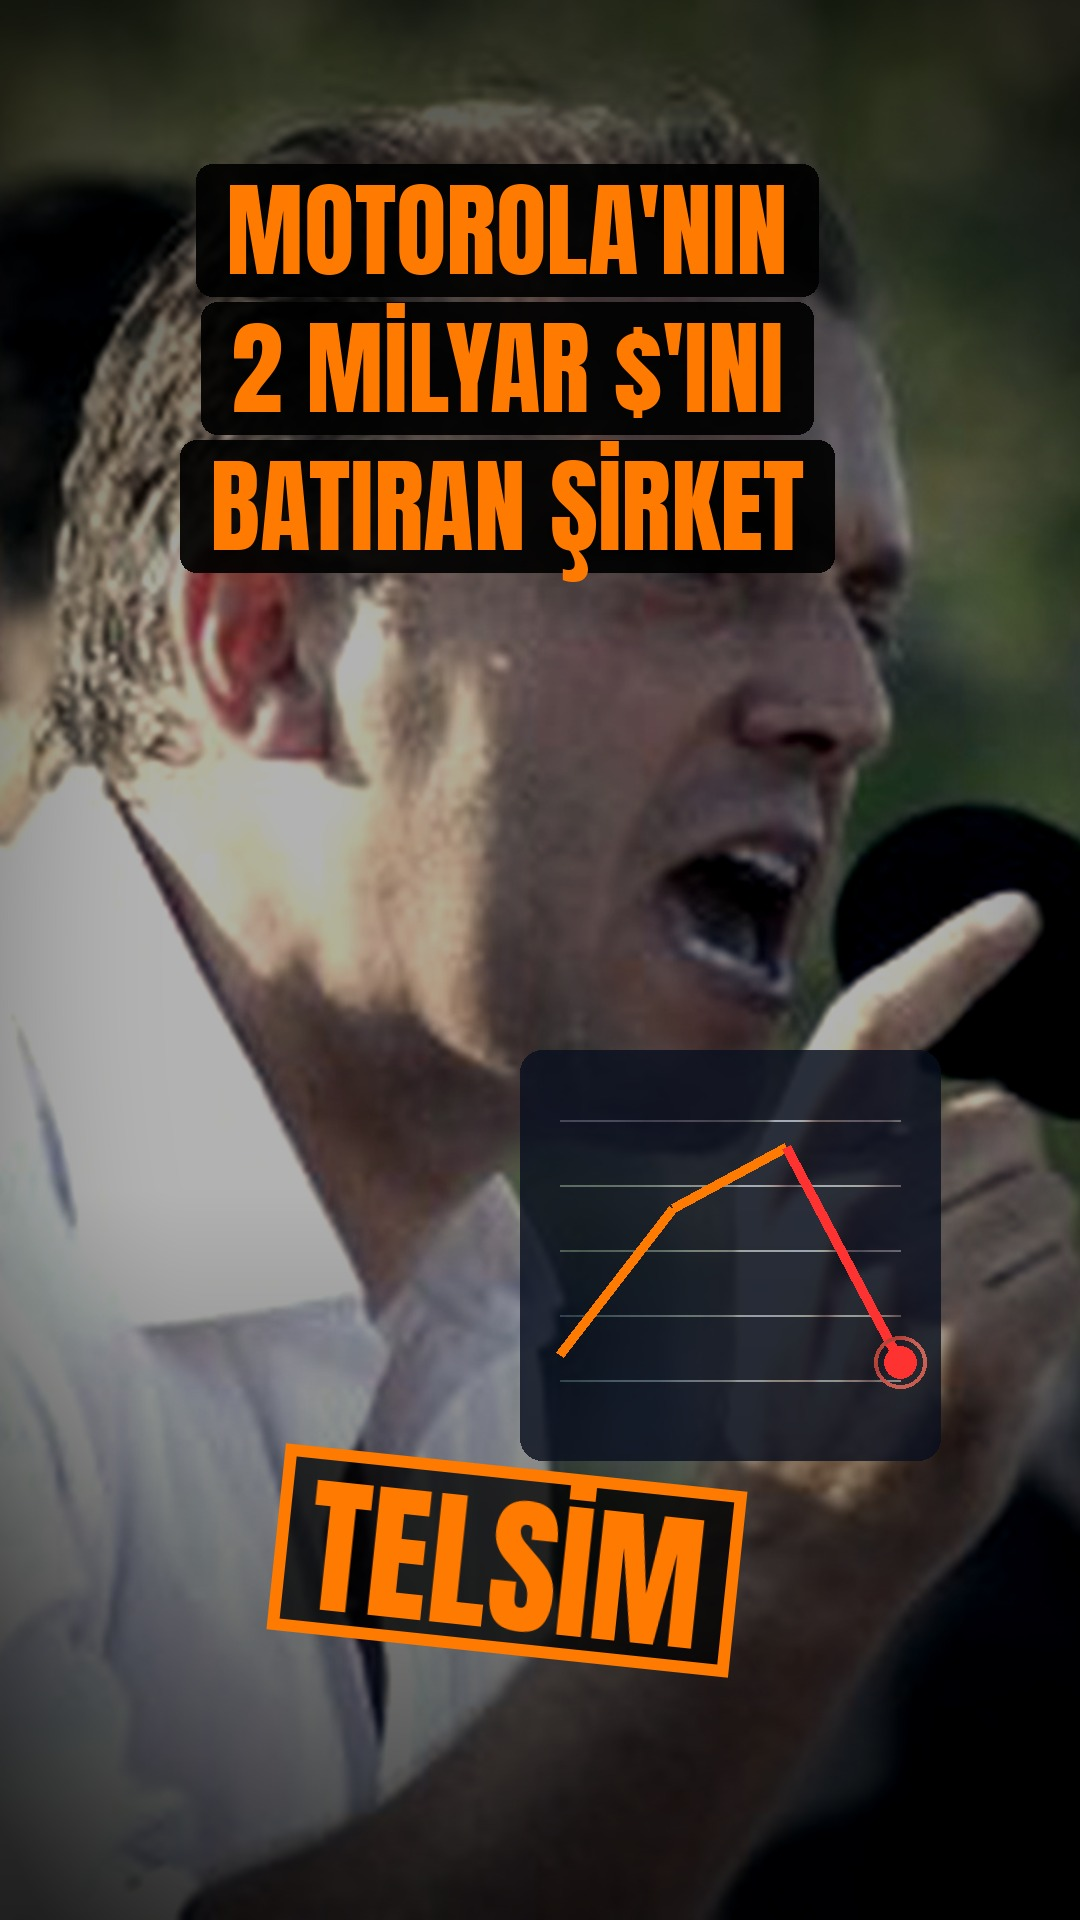
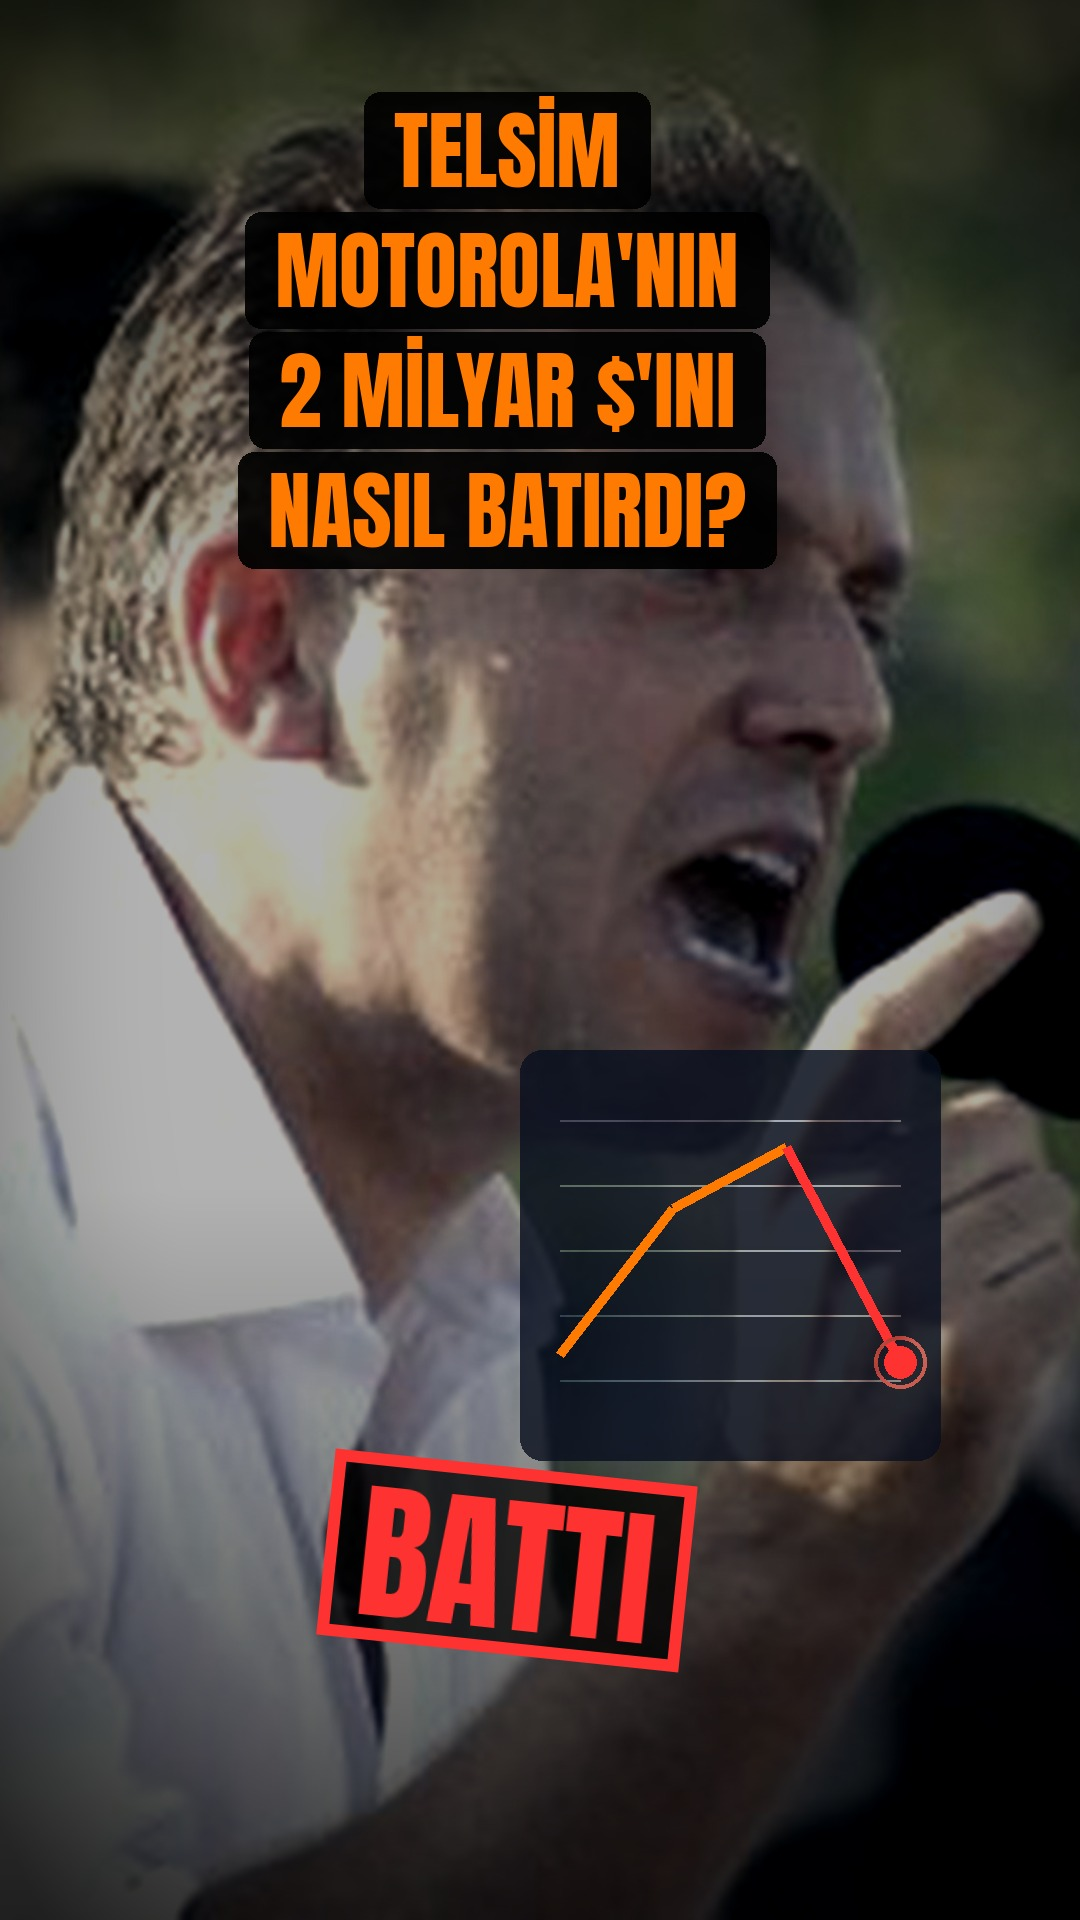
Kepenk Telsim: kapak başlığına Telsim eklendi
Claude-Session: https://claude.ai/code/session_01F3kmqnYyrWABB14zG5HZVq

Changed region(s): [[0.1528, 0.0312, 0.7944, 0.3125], [0.2444, 0.75, 0.7028, 0.875]]

diff --git a/kepenk/2026-10-28-telsim/scenes.py b/kepenk/2026-10-28-telsim/scenes.py
@@ -95,7 +95,7 @@ OVERLAYS = [
     dict(type="kinetic", t0=20.08, t1=21.5, text="PARA LAZIM", y=380, size=130),
     dict(type="tagpair", t0=21.7, t1=25.9, tags=[("MOTOROLA", 380, 24.34), ("NOKIA", 1060, 24.88)]),
     dict(type="moneyrain", t0=26.0, t1=28.85, n=30, spread=1.2),
-    dict(type="counter", t0=26.0, t1=28.85, **{"from": 0, "to": 2700000000}, fmt="${}", sep=True, dur=1.0, y=520, size=118, sub="satıcı kredisi"),
+    dict(type="counter", t0=26.0, t1=28.85, **{"from": 0, "to": 2700000000}, fmt="${}", sep=True, dur=1.0, y=520, size=118),
     dict(type="title", t0=29.86, t1=31.35, lines=["2001"], y=380, size=150),
     dict(type="stamp", t0=31.82, t1=33.4, text="ÖDEME YOK", y=760, size=150, color=RED, rot=-8, fill=True),
     # --- mahkeme
@@ -173,7 +173,7 @@ def spec():
     return {"duration": DURATION, "music": MUSIC, "sfx": SFX}
 
 
-COVER = dict(img="cem_miting", grade="dark", focus=(0.45, 0.32), zoom=1.0, lines=["MOTOROLA'NIN", "2 MİLYAR $'INI", "BATIRAN ŞİRKET"],
-             y=230, size=104, stamp="TELSİM", stamp_y=1560, stamp_size=150, stamp_color=ORANGE, stamp_rot=-6,
+COVER = dict(img="cem_miting", grade="dark", focus=(0.45, 0.12), zoom=1.0, lines=["TELSİM", "MOTOROLA'NIN", "2 MİLYAR $'INI", "NASIL BATIRDI?"],
+             y=150, size=86, stamp="BATTI", stamp_y=1560, stamp_size=150, stamp_color=RED, stamp_rot=-6,
              marks=[dict(type="chart", dur=0.01, color=ORANGE, crash=3, points=[("", 0.3), ("", 2.0), ("", 2.7), ("", 0.2)],
                          box=(560, 1120, 900, 1380))])
